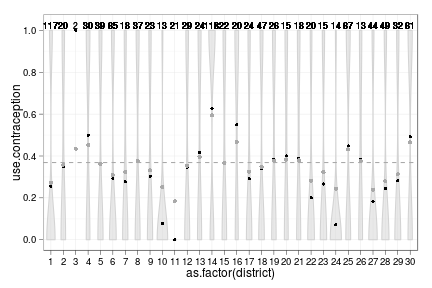
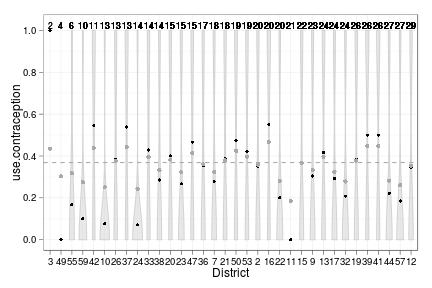
redoing ranef correlation plots

Changed region(s): [[0.0903, 0.0625, 0.963, 0.8438], [0.0903, 0.875, 0.963, 0.9688]]

diff --git a/hw9ashander.tex b/hw9ashander.tex
@@ -428,17 +428,12 @@ Looking at fertility in Bangladesh circa 1980.
 \begin{flushleft}
 \ttfamily\noindent
 \hlsymbol{d}{\ }\hlassignement{\usebox{\hlnormalsizeboxlessthan}-}{\ }\hlfunctioncall{read.csv}\hlkeyword{(}\hlstring{"{}bangladesh.csv"{}}\hlkeyword{)}\hspace*{\fill}\\
-\hlstd{}\hlfunctioncall{head}\hlkeyword{(}\hlsymbol{d}\hlkeyword{)}\mbox{}
+\hlstd{}\hlfunctioncall{head}\hlkeyword{(}\hlsymbol{d}\hlkeyword{,}{\ }\hlargument{n}{\ }\hlargument{=}{\ }\hlnumber{1}\hlkeyword{)}\mbox{}
 \normalfont
 \end{flushleft}
 \begin{verbatim}
 ##   woman district use.contraception living.children age.centered urban
 ## 1     1        1                 0               4        18.44     1
-## 2     2        1                 0               1        -5.56     1
-## 3     3        1                 0               3         1.44     1
-## 4     4        1                 0               4         8.44     1
-## 5     5        1                 0               1       -13.56     1
-## 6     6        1                 0               1       -11.56     1
 \end{verbatim}
 \begin{flushleft}
 \ttfamily\noindent
@@ -456,7 +451,7 @@ My focus is the variables {\tt district}, defining the woman's location in polit
 \subsection*{Predicting contraception use}
 
 
-First, I focus on predicting contraception use accounting for clustering of observations by district. 
+First, I will model contraception use accounting for clustering of observations by district. 
 I'll compare a model with a fixed effect for {\tt district} with a mixed effects model that puts random effects on {\tt district}
 
 \begin{knitrout}
@@ -480,13 +475,15 @@ I'll compare a model with a fixed effect for {\tt district} with a mixed effects
 
 
 \subsubsection*{Mixed effects or not?}
+
+
 \begin{knitrout}
 \definecolor{shadecolor}{rgb}{.97, .97, .97}{\color{fgcolor}\begin{kframe}
 \begin{flushleft}
 \ttfamily\noindent
-\hspace*{\fill}\\
-\hlstd{}\hlsymbol{d2}{\ }\hlassignement{\usebox{\hlnormalsizeboxlessthan}-}{\ }\hlfunctioncall{fortify}\hlkeyword{(}\hlsymbol{m1}\hlkeyword{,}{\ }\hlsymbol{d}\hlkeyword{)}{\ }{\ }\hlcomment{\usebox{\hlnormalsizeboxhash}add{\ }predictions{\ }to{\ }data{\ }logistic(d2\usebox{\hlnormalsizeboxdollar}.fitted){\ }gives{\ }predictions}\hspace*{\fill}\\
-\hlstd{}\hlsymbol{d2}\hlkeyword{\usebox{\hlnormalsizeboxdollar}}\hlsymbol{upper}{\ }\hlassignement{\usebox{\hlnormalsizeboxlessthan}-}{\ }\hlfunctioncall{ifelse}\hlkeyword{(}\hlsymbol{d2}\hlkeyword{\usebox{\hlnormalsizeboxdollar}}\hlsymbol{district}{\ }\hlkeyword{\usebox{\hlnormalsizeboxgreaterthan}}{\ }\hlnumber{30}\hlkeyword{,}{\ }\hlnumber{FALSE}\hlkeyword{,}{\ }\hlnumber{TRUE}\hlkeyword{)}\hspace*{\fill}\\
+\hlsymbol{d2}{\ }\hlassignement{\usebox{\hlnormalsizeboxlessthan}-}{\ }\hlfunctioncall{fortify}\hlkeyword{(}\hlsymbol{m1}\hlkeyword{,}{\ }\hlsymbol{d}\hlkeyword{)}{\ }{\ }\hlcomment{\usebox{\hlnormalsizeboxhash}add{\ }predictions{\ }to{\ }data{\ }logistic(d2\usebox{\hlnormalsizeboxdollar}.fitted){\ }gives{\ }predictions}\hspace*{\fill}\\
+\hlstd{}\hlsymbol{d2}\hlkeyword{\usebox{\hlnormalsizeboxdollar}}\hlsymbol{upper}{\ }\hlassignement{\usebox{\hlnormalsizeboxlessthan}-}{\ }\hlfunctioncall{with}\hlkeyword{(}\hlsymbol{d2}\hlkeyword{,}{\ }\hlfunctioncall{ifelse}\hlkeyword{(}\hlsymbol{population}{\ }\hlkeyword{\usebox{\hlnormalsizeboxgreaterthan}}{\ }\hlfunctioncall{median}\hlkeyword{(}\hlfunctioncall{unique}\hlkeyword{(}\hlsymbol{population}\hlkeyword{)}\hlkeyword{)}\hlkeyword{,}\hspace*{\fill}\\
+\hlstd{}{\ }{\ }{\ }{\ }\hlnumber{FALSE}\hlkeyword{,}{\ }\hlnumber{TRUE}\hlkeyword{)}\hlkeyword{)}\hspace*{\fill}\\
 \hlstd{}\hlsymbol{d2}\hlkeyword{\usebox{\hlnormalsizeboxdollar}}\hlsymbol{m1}{\ }\hlassignement{\usebox{\hlnormalsizeboxlessthan}-}{\ }\hlfunctioncall{logistic}\hlkeyword{(}\hlsymbol{d2}\hlkeyword{\usebox{\hlnormalsizeboxdollar}}\hlsymbol{.fitted}\hlkeyword{)}\hspace*{\fill}\\
 \hlstd{}\hspace*{\fill}\\
 \hlstd{}\hlsymbol{re2}{\ }\hlassignement{\usebox{\hlnormalsizeboxlessthan}-}{\ }\hlfunctioncall{ranef}\hlkeyword{(}\hlsymbol{m2}\hlkeyword{)}\hlkeyword{\usebox{\hlnormalsizeboxdollar}}\hlsymbol{district}\hspace*{\fill}\\
@@ -494,24 +491,26 @@ I'll compare a model with a fixed effect for {\tt district} with a mixed effects
 \hlstd{}\hlsymbol{d2}\hlkeyword{\usebox{\hlnormalsizeboxdollar}}\hlsymbol{m2}{\ }\hlassignement{\usebox{\hlnormalsizeboxlessthan}-}{\ }\hlfunctioncall{sapply}\hlkeyword{(}\hlsymbol{d2}\hlkeyword{\usebox{\hlnormalsizeboxdollar}}\hlsymbol{district}\hlkeyword{,}{\ }\hlkeyword{function}\hlkeyword{(}\hlformalargs{i}\hlkeyword{)}{\ }\hlfunctioncall{logistic}\hlkeyword{(}\hlsymbol{fe2}{\ }\hlkeyword{+}{\ }\hlsymbol{re2}\hlkeyword{[}\hlfunctioncall{match}\hlkeyword{(}\hlsymbol{i}\hlkeyword{,}\hspace*{\fill}\\
 \hlstd{}{\ }{\ }{\ }{\ }\hlfunctioncall{row.names}\hlkeyword{(}\hlsymbol{re2}\hlkeyword{)}\hlkeyword{)}\hlkeyword{,}{\ }\hlkeyword{]}\hlkeyword{)}\hlkeyword{)}\hspace*{\fill}\\
 \hlstd{}\hspace*{\fill}\\
+\hlstd{}\hlsymbol{d2}\hlkeyword{\usebox{\hlnormalsizeboxdollar}}\hlsymbol{District}{\ }\hlassignement{\usebox{\hlnormalsizeboxlessthan}-}{\ }\hlfunctioncall{with}\hlkeyword{(}\hlsymbol{d2}\hlkeyword{,}{\ }\hlfunctioncall{factor}\hlkeyword{(}\hlsymbol{district}\hlkeyword{,}{\ }\hlargument{levels}{\ }\hlargument{=}{\ }\hlfunctioncall{unique}\hlkeyword{(}\hlsymbol{district}\hlkeyword{[}\hlfunctioncall{order}\hlkeyword{(}\hlsymbol{population}\hlkeyword{)}\hlkeyword{]}\hlkeyword{)}\hlkeyword{)}\hlkeyword{)}\hspace*{\fill}\\
+\hlstd{}\hspace*{\fill}\\
 \hlstd{}\hlsymbol{g}{\ }\hlassignement{\usebox{\hlnormalsizeboxlessthan}-}{\ }\hlfunctioncall{ggplot}\hlkeyword{(}\hlfunctioncall{subset}\hlkeyword{(}\hlsymbol{d2}\hlkeyword{,}{\ }\hlsymbol{upper}\hlkeyword{)}\hlkeyword{)}{\ }\hlkeyword{+}{\ }\hlfunctioncall{theme\usebox{\hlnormalsizeboxunderscore}bw}\hlkeyword{(}\hlkeyword{)}\hspace*{\fill}\\
-\hlstd{}\hlsymbol{g}{\ }\hlassignement{\usebox{\hlnormalsizeboxlessthan}-}{\ }\hlsymbol{g}{\ }\hlkeyword{+}{\ }\hlfunctioncall{geom\usebox{\hlnormalsizeboxunderscore}violin}\hlkeyword{(}\hlfunctioncall{aes}\hlkeyword{(}\hlfunctioncall{as.factor}\hlkeyword{(}\hlsymbol{district}\hlkeyword{)}\hlkeyword{,}{\ }\hlsymbol{use.contraception}\hlkeyword{)}\hlkeyword{,}\hspace*{\fill}\\
-\hlstd{}{\ }{\ }{\ }{\ }\hlargument{alpha}{\ }\hlargument{=}{\ }\hlnumber{0.5}\hlkeyword{,}{\ }\hlargument{fill}{\ }\hlargument{=}{\ }\hlstring{"{}lightgrey"{}}\hlkeyword{,}{\ }\hlargument{color}{\ }\hlargument{=}{\ }\hlstring{"{}lightgray"{}}\hlkeyword{)}{\ }{\ }\hlcomment{\usebox{\hlnormalsizeboxhash}\usebox{\hlnormalsizeboxhash}{\ }construct{\ }a{\ }violin{\ }plot{\ }for{\ }use/non-use{\ }each{\ }district}\hspace*{\fill}\\
-\hlstd{}\hlsymbol{g}{\ }\hlassignement{\usebox{\hlnormalsizeboxlessthan}-}{\ }\hlsymbol{g}{\ }\hlkeyword{+}{\ }\hlfunctioncall{geom\usebox{\hlnormalsizeboxunderscore}point}\hlkeyword{(}\hlfunctioncall{aes}\hlkeyword{(}\hlfunctioncall{as.factor}\hlkeyword{(}\hlsymbol{district}\hlkeyword{)}\hlkeyword{,}{\ }\hlsymbol{m1}\hlkeyword{)}\hlkeyword{,}{\ }\hlargument{size}{\ }\hlargument{=}{\ }\hlnumber{1.5}\hlkeyword{)}\hspace*{\fill}\\
-\hlstd{}\hlsymbol{g}{\ }\hlassignement{\usebox{\hlnormalsizeboxlessthan}-}{\ }\hlsymbol{g}{\ }\hlkeyword{+}{\ }\hlfunctioncall{geom\usebox{\hlnormalsizeboxunderscore}point}\hlkeyword{(}\hlfunctioncall{aes}\hlkeyword{(}\hlfunctioncall{as.factor}\hlkeyword{(}\hlsymbol{district}\hlkeyword{)}\hlkeyword{,}{\ }\hlsymbol{m2}\hlkeyword{)}\hlkeyword{,}{\ }\hlargument{color}{\ }\hlargument{=}{\ }\hlstring{"{}darkgrey"{}}\hlkeyword{,}\hspace*{\fill}\\
+\hlstd{}\hlsymbol{g}{\ }\hlassignement{\usebox{\hlnormalsizeboxlessthan}-}{\ }\hlsymbol{g}{\ }\hlkeyword{+}{\ }\hlfunctioncall{geom\usebox{\hlnormalsizeboxunderscore}violin}\hlkeyword{(}\hlfunctioncall{aes}\hlkeyword{(}\hlsymbol{District}\hlkeyword{,}{\ }\hlsymbol{use.contraception}\hlkeyword{)}\hlkeyword{,}{\ }\hlargument{alpha}{\ }\hlargument{=}{\ }\hlnumber{0.5}\hlkeyword{,}\hspace*{\fill}\\
+\hlstd{}{\ }{\ }{\ }{\ }\hlargument{fill}{\ }\hlargument{=}{\ }\hlstring{"{}lightgrey"{}}\hlkeyword{,}{\ }\hlargument{color}{\ }\hlargument{=}{\ }\hlstring{"{}lightgray"{}}\hlkeyword{)}{\ }{\ }\hlcomment{\usebox{\hlnormalsizeboxhash}\usebox{\hlnormalsizeboxhash}{\ }construct{\ }a{\ }violin{\ }plot{\ }for{\ }use/non-use{\ }each{\ }district}\hspace*{\fill}\\
+\hlstd{}\hlsymbol{g}{\ }\hlassignement{\usebox{\hlnormalsizeboxlessthan}-}{\ }\hlsymbol{g}{\ }\hlkeyword{+}{\ }\hlfunctioncall{geom\usebox{\hlnormalsizeboxunderscore}point}\hlkeyword{(}\hlfunctioncall{aes}\hlkeyword{(}\hlsymbol{District}\hlkeyword{,}{\ }\hlsymbol{m1}\hlkeyword{)}\hlkeyword{,}{\ }\hlargument{size}{\ }\hlargument{=}{\ }\hlnumber{1.5}\hlkeyword{)}\hspace*{\fill}\\
+\hlstd{}\hlsymbol{g}{\ }\hlassignement{\usebox{\hlnormalsizeboxlessthan}-}{\ }\hlsymbol{g}{\ }\hlkeyword{+}{\ }\hlfunctioncall{geom\usebox{\hlnormalsizeboxunderscore}point}\hlkeyword{(}\hlfunctioncall{aes}\hlkeyword{(}\hlsymbol{District}\hlkeyword{,}{\ }\hlsymbol{m2}\hlkeyword{)}\hlkeyword{,}{\ }\hlargument{color}{\ }\hlargument{=}{\ }\hlstring{"{}darkgrey"{}}\hlkeyword{,}\hspace*{\fill}\\
 \hlstd{}{\ }{\ }{\ }{\ }\hlargument{size}{\ }\hlargument{=}{\ }\hlnumber{2}\hlkeyword{)}{\ }\hlkeyword{+}{\ }\hlfunctioncall{geom\usebox{\hlnormalsizeboxunderscore}hline}\hlkeyword{(}\hlargument{yintercept}{\ }\hlargument{=}{\ }\hlfunctioncall{logistic}\hlkeyword{(}\hlsymbol{fe2}\hlkeyword{)}\hlkeyword{,}{\ }\hlargument{color}{\ }\hlargument{=}{\ }\hlstring{"{}darkgrey"{}}\hlkeyword{,}\hspace*{\fill}\\
 \hlstd{}{\ }{\ }{\ }{\ }\hlargument{linetype}{\ }\hlargument{=}{\ }\hlnumber{2}\hlkeyword{)}\hspace*{\fill}\\
-\hlstd{}\hlsymbol{g}{\ }\hlkeyword{+}{\ }\hlfunctioncall{geom\usebox{\hlnormalsizeboxunderscore}text}\hlkeyword{(}\hlfunctioncall{aes}\hlkeyword{(}\hlfunctioncall{as.factor}\hlkeyword{(}\hlsymbol{district}\hlkeyword{)}\hlkeyword{,}{\ }\hlfunctioncall{c}\hlkeyword{(}\hlnumber{1.025}\hlkeyword{)}\hlkeyword{,}{\ }\hlargument{label}{\ }\hlargument{=}{\ }\hlsymbol{population}\hlkeyword{)}\hlkeyword{,}\hspace*{\fill}\\
+\hlstd{}\hlsymbol{g}{\ }\hlkeyword{+}{\ }\hlfunctioncall{geom\usebox{\hlnormalsizeboxunderscore}text}\hlkeyword{(}\hlfunctioncall{aes}\hlkeyword{(}\hlsymbol{District}\hlkeyword{,}{\ }\hlfunctioncall{c}\hlkeyword{(}\hlnumber{1.025}\hlkeyword{)}\hlkeyword{,}{\ }\hlargument{label}{\ }\hlargument{=}{\ }\hlsymbol{population}\hlkeyword{)}\hlkeyword{,}\hspace*{\fill}\\
 \hlstd{}{\ }{\ }{\ }{\ }\hlargument{size}{\ }\hlargument{=}{\ }\hlnumber{3}\hlkeyword{,}{\ }\hlargument{fontfamily}{\ }\hlargument{=}{\ }\hlstring{"{}serif"{}}\hlkeyword{)}\hspace*{\fill}\\
 \hlstd{}\hspace*{\fill}\\
 \hlstd{}\hlsymbol{g}{\ }\hlassignement{\usebox{\hlnormalsizeboxlessthan}-}{\ }\hlfunctioncall{ggplot}\hlkeyword{(}\hlfunctioncall{subset}\hlkeyword{(}\hlsymbol{d2}\hlkeyword{,}{\ }\hlkeyword{!}\hlsymbol{upper}\hlkeyword{)}\hlkeyword{)}{\ }\hlkeyword{+}{\ }\hlfunctioncall{theme\usebox{\hlnormalsizeboxunderscore}bw}\hlkeyword{(}\hlkeyword{)}\hspace*{\fill}\\
-\hlstd{}\hlsymbol{g}{\ }\hlassignement{\usebox{\hlnormalsizeboxlessthan}-}{\ }\hlsymbol{g}{\ }\hlkeyword{+}{\ }\hlfunctioncall{geom\usebox{\hlnormalsizeboxunderscore}violin}\hlkeyword{(}\hlfunctioncall{aes}\hlkeyword{(}\hlfunctioncall{as.factor}\hlkeyword{(}\hlsymbol{district}\hlkeyword{)}\hlkeyword{,}{\ }\hlsymbol{use.contraception}\hlkeyword{)}\hlkeyword{,}\hspace*{\fill}\\
-\hlstd{}{\ }{\ }{\ }{\ }\hlargument{alpha}{\ }\hlargument{=}{\ }\hlnumber{0.5}\hlkeyword{,}{\ }\hlargument{fill}{\ }\hlargument{=}{\ }\hlstring{"{}lightgrey"{}}\hlkeyword{,}{\ }\hlargument{color}{\ }\hlargument{=}{\ }\hlstring{"{}lightgray"{}}\hlkeyword{)}{\ }{\ }\hlcomment{\usebox{\hlnormalsizeboxhash}\usebox{\hlnormalsizeboxhash}{\ }construct{\ }a{\ }violin{\ }plot{\ }for{\ }use/non-use{\ }each{\ }district}\hspace*{\fill}\\
-\hlstd{}\hlsymbol{g}{\ }\hlassignement{\usebox{\hlnormalsizeboxlessthan}-}{\ }\hlsymbol{g}{\ }\hlkeyword{+}{\ }\hlfunctioncall{geom\usebox{\hlnormalsizeboxunderscore}point}\hlkeyword{(}\hlfunctioncall{aes}\hlkeyword{(}\hlfunctioncall{as.factor}\hlkeyword{(}\hlsymbol{district}\hlkeyword{)}\hlkeyword{,}{\ }\hlsymbol{m1}\hlkeyword{)}\hlkeyword{,}{\ }\hlargument{size}{\ }\hlargument{=}{\ }\hlnumber{1.5}\hlkeyword{)}\hspace*{\fill}\\
-\hlstd{}\hlsymbol{g}{\ }\hlassignement{\usebox{\hlnormalsizeboxlessthan}-}{\ }\hlsymbol{g}{\ }\hlkeyword{+}{\ }\hlfunctioncall{geom\usebox{\hlnormalsizeboxunderscore}point}\hlkeyword{(}\hlfunctioncall{aes}\hlkeyword{(}\hlfunctioncall{as.factor}\hlkeyword{(}\hlsymbol{district}\hlkeyword{)}\hlkeyword{,}{\ }\hlsymbol{m2}\hlkeyword{)}\hlkeyword{,}{\ }\hlargument{color}{\ }\hlargument{=}{\ }\hlstring{"{}darkgrey"{}}\hlkeyword{,}\hspace*{\fill}\\
+\hlstd{}\hlsymbol{g}{\ }\hlassignement{\usebox{\hlnormalsizeboxlessthan}-}{\ }\hlsymbol{g}{\ }\hlkeyword{+}{\ }\hlfunctioncall{geom\usebox{\hlnormalsizeboxunderscore}violin}\hlkeyword{(}\hlfunctioncall{aes}\hlkeyword{(}\hlsymbol{District}\hlkeyword{,}{\ }\hlsymbol{use.contraception}\hlkeyword{)}\hlkeyword{,}{\ }\hlargument{alpha}{\ }\hlargument{=}{\ }\hlnumber{0.5}\hlkeyword{,}\hspace*{\fill}\\
+\hlstd{}{\ }{\ }{\ }{\ }\hlargument{fill}{\ }\hlargument{=}{\ }\hlstring{"{}lightgrey"{}}\hlkeyword{,}{\ }\hlargument{color}{\ }\hlargument{=}{\ }\hlstring{"{}lightgray"{}}\hlkeyword{)}{\ }{\ }\hlcomment{\usebox{\hlnormalsizeboxhash}\usebox{\hlnormalsizeboxhash}{\ }construct{\ }a{\ }violin{\ }plot{\ }for{\ }use/non-use{\ }each{\ }district}\hspace*{\fill}\\
+\hlstd{}\hlsymbol{g}{\ }\hlassignement{\usebox{\hlnormalsizeboxlessthan}-}{\ }\hlsymbol{g}{\ }\hlkeyword{+}{\ }\hlfunctioncall{geom\usebox{\hlnormalsizeboxunderscore}point}\hlkeyword{(}\hlfunctioncall{aes}\hlkeyword{(}\hlsymbol{District}\hlkeyword{,}{\ }\hlsymbol{m1}\hlkeyword{)}\hlkeyword{,}{\ }\hlargument{size}{\ }\hlargument{=}{\ }\hlnumber{1.5}\hlkeyword{)}\hspace*{\fill}\\
+\hlstd{}\hlsymbol{g}{\ }\hlassignement{\usebox{\hlnormalsizeboxlessthan}-}{\ }\hlsymbol{g}{\ }\hlkeyword{+}{\ }\hlfunctioncall{geom\usebox{\hlnormalsizeboxunderscore}point}\hlkeyword{(}\hlfunctioncall{aes}\hlkeyword{(}\hlsymbol{District}\hlkeyword{,}{\ }\hlsymbol{m2}\hlkeyword{)}\hlkeyword{,}{\ }\hlargument{color}{\ }\hlargument{=}{\ }\hlstring{"{}darkgrey"{}}\hlkeyword{,}\hspace*{\fill}\\
 \hlstd{}{\ }{\ }{\ }{\ }\hlargument{size}{\ }\hlargument{=}{\ }\hlnumber{2}\hlkeyword{)}{\ }\hlkeyword{+}{\ }\hlfunctioncall{geom\usebox{\hlnormalsizeboxunderscore}hline}\hlkeyword{(}\hlargument{yintercept}{\ }\hlargument{=}{\ }\hlfunctioncall{logistic}\hlkeyword{(}\hlsymbol{fe2}\hlkeyword{)}\hlkeyword{,}{\ }\hlargument{color}{\ }\hlargument{=}{\ }\hlstring{"{}darkgrey"{}}\hlkeyword{,}\hspace*{\fill}\\
 \hlstd{}{\ }{\ }{\ }{\ }\hlargument{linetype}{\ }\hlargument{=}{\ }\hlnumber{2}\hlkeyword{)}\hspace*{\fill}\\
-\hlstd{}\hlsymbol{g}{\ }\hlkeyword{+}{\ }\hlfunctioncall{geom\usebox{\hlnormalsizeboxunderscore}text}\hlkeyword{(}\hlfunctioncall{aes}\hlkeyword{(}\hlfunctioncall{as.factor}\hlkeyword{(}\hlsymbol{district}\hlkeyword{)}\hlkeyword{,}{\ }\hlfunctioncall{c}\hlkeyword{(}\hlnumber{1.025}\hlkeyword{)}\hlkeyword{,}{\ }\hlargument{label}{\ }\hlargument{=}{\ }\hlsymbol{population}\hlkeyword{)}\hlkeyword{,}\hspace*{\fill}\\
+\hlstd{}\hlsymbol{g}{\ }\hlkeyword{+}{\ }\hlfunctioncall{geom\usebox{\hlnormalsizeboxunderscore}text}\hlkeyword{(}\hlfunctioncall{aes}\hlkeyword{(}\hlsymbol{District}\hlkeyword{,}{\ }\hlfunctioncall{c}\hlkeyword{(}\hlnumber{1.025}\hlkeyword{)}\hlkeyword{,}{\ }\hlargument{label}{\ }\hlargument{=}{\ }\hlsymbol{population}\hlkeyword{)}\hlkeyword{,}\hspace*{\fill}\\
 \hlstd{}{\ }{\ }{\ }{\ }\hlargument{size}{\ }\hlargument{=}{\ }\hlnumber{3}\hlkeyword{,}{\ }\hlargument{fontfamily}{\ }\hlargument{=}{\ }\hlstring{"{}serif"{}}\hlkeyword{)}\mbox{}
 \normalfont
 \end{flushleft}
@@ -523,19 +522,24 @@ I'll compare a model with a fixed effect for {\tt district} with a mixed effects
 \end{knitrout}
 
 
-Point estimates from mixed model (gray dots) are biased toward the group mean (dashed line), relative to estimates from fixed effects model (black dots).
-Number of respondents per district are listed at the top of the plot. 
+The figures above show distributions of contraception use for each district (grey violin plots in backgroun) along with point estimates from mixed and fixed-effects only models. The estimates from mixed model (gray dots) are biased toward the group mean (dashed line), relative to estimates from fixed effects model (black dots).
+The number of respondents per district are listed at the top of the plot, and districts are ordered by this number (left to right ascending).
 
-
-The mixed effect and fixed effect estimates disagree most in districts with low numbers of respondents. 
+The mixed effect and fixed effect estimates disagree most in districts with low numbers of respondents where responses are skewed relative to the overall mean. 
 This effect occurs across the whole data set, and is most obvious in districts with very few respondents, and whose cluster mean is very far from the overall mean. 
 For example districts 3, 11, and 49 show no variance in responses and the largest disagreements between mixed and random estimates. 
 There are also large differences in districts with relatively few, but very skewed responses, e.g. district 10 (n=13), 24 (n=14), or 59 (n=10).
-When responses are very skewed, even relatively large districts 
+Even in relatively large districts, when responses are very skewed, the mixed and fixed models differ quite a bit e.g. 56 (n=45) and 34 (n=35), which are both above median.
 
 
 
 \subsubsection*{urbanness (b)}
+
+I now turn to the effect of living in an urban location on contraceptive use. 
+My armchair sociological intuition suggests women living in urban areas will be more likely to use contraception.
+
+I model contraception use as a binomial outcome predicted by the catgorical variable {\tt urban}. 
+In addition, I allow the overall prevalence (random slope intercept) and effect of urbanness (random slope) to vary by district.
 
 \begin{knitrout}
 \definecolor{shadecolor}{rgb}{.97, .97, .97}{\color{fgcolor}\begin{kframe}
@@ -584,35 +588,19 @@ When responses are very skewed, even relatively large districts
 \begin{flushleft}
 \ttfamily\noindent
 \hspace*{\fill}\\
+\hlstd{}\hlsymbol{d.re}{\ }\hlassignement{\usebox{\hlnormalsizeboxlessthan}-}{\ }\hlfunctioncall{ranef}\hlkeyword{(}\hlsymbol{m3}\hlkeyword{)}\hlkeyword{\usebox{\hlnormalsizeboxdollar}}\hlsymbol{district}\hspace*{\fill}\\
+\hlstd{}\hlsymbol{d.re}\hlkeyword{\usebox{\hlnormalsizeboxdollar}}\hlsymbol{district}{\ }\hlassignement{\usebox{\hlnormalsizeboxlessthan}-}{\ }\hlfunctioncall{as.numeric}\hlkeyword{(}\hlfunctioncall{row.names}\hlkeyword{(}\hlsymbol{d.re}\hlkeyword{)}\hlkeyword{)}\hspace*{\fill}\\
 \hlstd{}\hspace*{\fill}\\
-\hlstd{}\hlfunctioncall{plot}\hlkeyword{(}\hlfunctioncall{ranef}\hlkeyword{(}\hlsymbol{m3}\hlkeyword{)}\hlkeyword{)}\mbox{}
-\normalfont
-\end{flushleft}
-\begin{verbatim}
-## $district
-\end{verbatim}
-\begin{verbatim}
-## 
-\end{verbatim}
-
-
-\centering{}\includegraphics{urban-model} 
-
-\end{kframe}}
-\end{knitrout}
-
-
-Negative correlation between the varying intercepts and slopes and slopes on urban, per district:  $\rho = - 0. 662$. 
-
-This implies a tradeoff between these two coefficients, i.e. observed differences can be explained {\em either} via large intercept effect or via a large slope effect on urbanness. 
-This points to an issue of identifiability between random intercept on district alone and a random slope on the effect of urban within district.
-
-\begin{knitrout}
-\definecolor{shadecolor}{rgb}{.97, .97, .97}{\color{fgcolor}\begin{kframe}
-\begin{flushleft}
-\ttfamily\noindent
-\hlsymbol{g2}{\ }\hlassignement{\usebox{\hlnormalsizeboxlessthan}-}{\ }\hlfunctioncall{ggplot}\hlkeyword{(}\hlsymbol{d}\hlkeyword{)}\hspace*{\fill}\\
-\hlstd{}\hlsymbol{g2}{\ }\hlkeyword{+}{\ }\hlfunctioncall{geom\usebox{\hlnormalsizeboxunderscore}violin}\hlkeyword{(}\hlfunctioncall{aes}\hlkeyword{(}\hlsymbol{district}\hlkeyword{,}{\ }\hlsymbol{use.contraception}\hlkeyword{)}\hlkeyword{)}{\ }\hlkeyword{+}{\ }\hlfunctioncall{facet\usebox{\hlnormalsizeboxunderscore}grid}\hlkeyword{(}\hlkeyword{\urltilda{}}\hlsymbol{urban}\hlkeyword{)}\hspace*{\fill}\\
+\hlstd{}\hlsymbol{g8}{\ }\hlassignement{\usebox{\hlnormalsizeboxlessthan}-}{\ }\hlfunctioncall{ggplot}\hlkeyword{(}\hlsymbol{d.re}\hlkeyword{)}{\ }\hlkeyword{+}{\ }\hlfunctioncall{theme\usebox{\hlnormalsizeboxunderscore}bw}\hlkeyword{(}\hlkeyword{)}\hspace*{\fill}\\
+\hlstd{}\hlsymbol{g8}{\ }\hlassignement{\usebox{\hlnormalsizeboxlessthan}-}{\ }\hlsymbol{g8}{\ }\hlkeyword{+}{\ }\hlfunctioncall{geom\usebox{\hlnormalsizeboxunderscore}point}\hlkeyword{(}\hlfunctioncall{aes}\hlkeyword{(}\hlsymbol{\usebox{\hlnormalsizeboxbacktick}(Intercept)\usebox{\hlnormalsizeboxbacktick}}\hlkeyword{,}{\ }\hlsymbol{urban}\hlkeyword{)}\hlkeyword{)}\hspace*{\fill}\\
+\hlstd{}\hspace*{\fill}\\
+\hlstd{}\hlsymbol{g9}{\ }\hlassignement{\usebox{\hlnormalsizeboxlessthan}-}{\ }\hlfunctioncall{ggplot}\hlkeyword{(}\hlfunctioncall{melt}\hlkeyword{(}\hlsymbol{d.re}\hlkeyword{,}{\ }\hlargument{id.vars}{\ }\hlargument{=}{\ }\hlstring{"{}district"{}}\hlkeyword{)}\hlkeyword{)}{\ }\hlkeyword{+}{\ }\hlfunctioncall{theme\usebox{\hlnormalsizeboxunderscore}bw}\hlkeyword{(}\hlkeyword{)}\hspace*{\fill}\\
+\hlstd{}\hlsymbol{g9}{\ }\hlassignement{\usebox{\hlnormalsizeboxlessthan}-}{\ }\hlsymbol{g9}{\ }\hlkeyword{+}{\ }\hlfunctioncall{geom\usebox{\hlnormalsizeboxunderscore}line}\hlkeyword{(}\hlfunctioncall{aes}\hlkeyword{(}\hlsymbol{district}\hlkeyword{,}{\ }\hlsymbol{value}\hlkeyword{,}{\ }\hlargument{color}{\ }\hlargument{=}{\ }\hlsymbol{variable}\hlkeyword{)}\hlkeyword{)}{\ }\hlkeyword{+}\hspace*{\fill}\\
+\hlstd{}{\ }{\ }{\ }{\ }\hlfunctioncall{scale\usebox{\hlnormalsizeboxunderscore}color\usebox{\hlnormalsizeboxunderscore}grey}\hlkeyword{(}\hlkeyword{)}{\ }\hlkeyword{+}{\ }\hlfunctioncall{ylab}\hlkeyword{(}\hlstring{"{}varying{\ }effect{\ }estimate"{}}\hlkeyword{)}\hspace*{\fill}\\
+\hlstd{}\hspace*{\fill}\\
+\hlstd{}\hlcomment{\usebox{\hlnormalsizeboxhash}g2{\ }\usebox{\hlnormalsizeboxlessthan}-{\ }ggplot(within(d,{\ }urban{\ }\usebox{\hlnormalsizeboxlessthan}-{\ }as.factor(urban)))+theme\usebox{\hlnormalsizeboxunderscore}bw()}\hspace*{\fill}\\
+\hlstd{}\hlcomment{\usebox{\hlnormalsizeboxhash}g2{\ }+{\ }geom\usebox{\hlnormalsizeboxunderscore}violin(aes(district,}\hspace*{\fill}\\
+\hlstd{}\hlcomment{\usebox{\hlnormalsizeboxhash}{\ }{\ }{\ }use.contraception,fill=urban))+facet\usebox{\hlnormalsizeboxunderscore}grid(\urltilda{}urban)+scale\usebox{\hlnormalsizeboxunderscore}fill\usebox{\hlnormalsizeboxunderscore}grey()}\hspace*{\fill}\\
 \hlstd{}\hspace*{\fill}\\
 \hlstd{}\hlsymbol{a\usebox{\hlnormalsizeboxunderscore}dist}{\ }\hlassignement{\usebox{\hlnormalsizeboxlessthan}-}{\ }\hlfunctioncall{ranef}\hlkeyword{(}\hlsymbol{m3}\hlkeyword{)}\hlkeyword{\usebox{\hlnormalsizeboxdollar}}\hlsymbol{district}\hlkeyword{[}\hlkeyword{,}{\ }\hlnumber{1}\hlkeyword{]}\hspace*{\fill}\\
 \hlstd{}\hlsymbol{b\usebox{\hlnormalsizeboxunderscore}dist}{\ }\hlassignement{\usebox{\hlnormalsizeboxlessthan}-}{\ }\hlfunctioncall{ranef}\hlkeyword{(}\hlsymbol{m3}\hlkeyword{)}\hlkeyword{\usebox{\hlnormalsizeboxdollar}}\hlsymbol{district}\hlkeyword{[}\hlkeyword{,}{\ }\hlnumber{2}\hlkeyword{]}\hspace*{\fill}\\
@@ -621,26 +609,37 @@ This points to an issue of identifiability between random intercept on district 
 \hlstd{}\hlsymbol{urban}{\ }\hlassignement{\usebox{\hlnormalsizeboxlessthan}-}{\ }\hlfunctioncall{logistic}\hlkeyword{(}\hlsymbol{a}{\ }\hlkeyword{+}{\ }\hlsymbol{a\usebox{\hlnormalsizeboxunderscore}dist}{\ }\hlkeyword{+}{\ }\hlsymbol{b\usebox{\hlnormalsizeboxunderscore}dist}{\ }\hlkeyword{+}{\ }\hlsymbol{b}\hlkeyword{)}\hspace*{\fill}\\
 \hlstd{}\hlsymbol{rural}{\ }\hlassignement{\usebox{\hlnormalsizeboxlessthan}-}{\ }\hlfunctioncall{logistic}\hlkeyword{(}\hlsymbol{a}{\ }\hlkeyword{+}{\ }\hlsymbol{a\usebox{\hlnormalsizeboxunderscore}dist}\hlkeyword{)}\hspace*{\fill}\\
 \hlstd{}\hlsymbol{p.corr}{\ }\hlassignement{\usebox{\hlnormalsizeboxlessthan}-}{\ }\hlfunctioncall{data.frame}\hlkeyword{(}\hlargument{urban}{\ }\hlargument{=}{\ }\hlsymbol{urban}\hlkeyword{,}{\ }\hlargument{rural}{\ }\hlargument{=}{\ }\hlsymbol{rural}\hlkeyword{)}\hspace*{\fill}\\
-\hlstd{}\hlsymbol{p.corr}\hlkeyword{\usebox{\hlnormalsizeboxdollar}}\hlsymbol{lab}{\ }\hlassignement{\usebox{\hlnormalsizeboxlessthan}-}{\ }\hlfunctioncall{as.character}\hlkeyword{(}\hlfunctioncall{unique}\hlkeyword{(}\hlsymbol{d2}\hlkeyword{\usebox{\hlnormalsizeboxdollar}}\hlsymbol{district}\hlkeyword{)}\hlkeyword{)}\hspace*{\fill}\\
+\hlstd{}\hlsymbol{p.corr}\hlkeyword{\usebox{\hlnormalsizeboxdollar}}\hlsymbol{lab}{\ }\hlassignement{\usebox{\hlnormalsizeboxlessthan}-}{\ }\hlfunctioncall{as.character}\hlkeyword{(}\hlfunctioncall{unique}\hlkeyword{(}\hlsymbol{d}\hlkeyword{\usebox{\hlnormalsizeboxdollar}}\hlsymbol{district}\hlkeyword{)}\hlkeyword{)}\hspace*{\fill}\\
 \hlstd{}\hspace*{\fill}\\
-\hlstd{}\hlfunctioncall{plot}\hlkeyword{(}\hlnumber{1}\hlkeyword{,}{\ }\hlnumber{1}\hlkeyword{,}{\ }\hlargument{ylim}{\ }\hlargument{=}{\ }\hlfunctioncall{c}\hlkeyword{(}\hlnumber{0}\hlkeyword{,}{\ }\hlnumber{1}\hlkeyword{)}\hlkeyword{,}{\ }\hlargument{xlim}{\ }\hlargument{=}{\ }\hlfunctioncall{c}\hlkeyword{(}\hlnumber{0}\hlkeyword{,}{\ }\hlnumber{1}\hlkeyword{)}\hlkeyword{,}{\ }\hlargument{pch}{\ }\hlargument{=}{\ }\hlstring{"{}"{}}\hlkeyword{,}{\ }\hlargument{xlab}{\ }\hlargument{=}{\ }\hlstring{"{}probability{\ }contraceptive{\ }use{\ }rural"{}}\hlkeyword{,}\hspace*{\fill}\\
-\hlstd{}{\ }{\ }{\ }{\ }\hlargument{ylab}{\ }\hlargument{=}{\ }\hlstring{"{}probability{\ }contraceptive{\ }use{\ }urban"{}}\hlkeyword{)}\hspace*{\fill}\\
-\hlstd{}\hlfunctioncall{abline}\hlkeyword{(}\hlnumber{0}\hlkeyword{,}{\ }\hlnumber{1}\hlkeyword{,}{\ }\hlargument{lwd}{\ }\hlargument{=}{\ }\hlnumber{2}\hlkeyword{,}{\ }\hlargument{col}{\ }\hlargument{=}{\ }\hlstring{"{}grey"{}}\hlkeyword{,}{\ }\hlargument{lty}{\ }\hlargument{=}{\ }\hlnumber{2}\hlkeyword{)}\hspace*{\fill}\\
-\hlstd{}\hlfunctioncall{points}\hlkeyword{(}\hlsymbol{rural}\hlkeyword{,}{\ }\hlsymbol{urban}\hlkeyword{,}{\ }\hlargument{col}{\ }\hlargument{=}{\ }\hlfunctioncall{col.alpha}\hlkeyword{(}\hlstring{"{}grey"{}}\hlkeyword{,}{\ }\hlnumber{0.6}\hlkeyword{)}\hlkeyword{,}{\ }\hlargument{pch}{\ }\hlargument{=}{\ }\hlnumber{19}\hlkeyword{)}\hspace*{\fill}\\
-\hlstd{}\hlcomment{\usebox{\hlnormalsizeboxhash}find{\ }outliers}\hspace*{\fill}\\
-\hlstd{}\hlsymbol{labs}{\ }\hlassignement{\usebox{\hlnormalsizeboxlessthan}-}{\ }\hlsymbol{p.corr}\hlkeyword{[}\hlfunctioncall{c}\hlkeyword{(}\hlnumber{1}\hlkeyword{,}{\ }\hlnumber{4}\hlkeyword{,}{\ }\hlnumber{11}\hlkeyword{,}{\ }\hlnumber{27}\hlkeyword{,}{\ }\hlnumber{34}\hlkeyword{,}{\ }\hlnumber{41}\hlkeyword{,}{\ }\hlnumber{52}\hlkeyword{)}\hlkeyword{,}{\ }\hlkeyword{]}\hspace*{\fill}\\
-\hlstd{}\hlfunctioncall{text}\hlkeyword{(}\hlsymbol{labs}\hlkeyword{\usebox{\hlnormalsizeboxdollar}}\hlsymbol{rural}\hlkeyword{,}{\ }\hlsymbol{labs}\hlkeyword{\usebox{\hlnormalsizeboxdollar}}\hlsymbol{urban}\hlkeyword{,}{\ }\hlargument{labels}{\ }\hlargument{=}{\ }\hlsymbol{labs}\hlkeyword{\usebox{\hlnormalsizeboxdollar}}\hlsymbol{lab}\hlkeyword{)}\mbox{}
+\hlstd{}\hlsymbol{g7}{\ }\hlassignement{\usebox{\hlnormalsizeboxlessthan}-}{\ }\hlfunctioncall{ggplot}\hlkeyword{(}\hlsymbol{p.corr}\hlkeyword{)}{\ }\hlkeyword{+}{\ }\hlfunctioncall{theme\usebox{\hlnormalsizeboxunderscore}bw}\hlkeyword{(}\hlkeyword{)}\hspace*{\fill}\\
+\hlstd{}\hlsymbol{g7}{\ }\hlassignement{\usebox{\hlnormalsizeboxlessthan}-}{\ }\hlsymbol{g7}{\ }\hlkeyword{+}{\ }\hlfunctioncall{geom\usebox{\hlnormalsizeboxunderscore}abline}\hlkeyword{(}\hlargument{intercept}{\ }\hlargument{=}{\ }\hlnumber{0}\hlkeyword{,}{\ }\hlargument{slope}{\ }\hlargument{=}{\ }\hlnumber{1}\hlkeyword{,}{\ }\hlargument{color}{\ }\hlargument{=}{\ }\hlstring{"{}grey"{}}\hlkeyword{)}{\ }\hlkeyword{+}\hspace*{\fill}\\
+\hlstd{}{\ }{\ }{\ }{\ }\hlfunctioncall{geom\usebox{\hlnormalsizeboxunderscore}point}\hlkeyword{(}\hlfunctioncall{aes}\hlkeyword{(}\hlsymbol{rural}\hlkeyword{,}{\ }\hlsymbol{urban}\hlkeyword{)}\hlkeyword{)}{\ }\hlkeyword{+}{\ }\hlfunctioncall{xlab}\hlkeyword{(}\hlstring{"{}prob{\ }contraceptive{\ }use{\ }|{\ }rural"{}}\hlkeyword{)}{\ }\hlkeyword{+}\hspace*{\fill}\\
+\hlstd{}{\ }{\ }{\ }{\ }\hlfunctioncall{ylab}\hlkeyword{(}\hlstring{"{}prob{\ }contraceptive{\ }use{\ }|{\ }urban"{}}\hlkeyword{)}{\ }\hlkeyword{+}{\ }\hlfunctioncall{ylim}\hlkeyword{(}\hlfunctioncall{c}\hlkeyword{(}\hlnumber{0}\hlkeyword{,}{\ }\hlnumber{1}\hlkeyword{)}\hlkeyword{)}{\ }\hlkeyword{+}{\ }\hlfunctioncall{xlim}\hlkeyword{(}\hlfunctioncall{c}\hlkeyword{(}\hlnumber{0}\hlkeyword{,}\hspace*{\fill}\\
+\hlstd{}{\ }{\ }{\ }{\ }\hlnumber{1}\hlkeyword{)}\hlkeyword{)}\hspace*{\fill}\\
+\hlstd{}\hspace*{\fill}\\
+\hlstd{}\hlfunctioncall{require}\hlkeyword{(}\hlsymbol{gridExtra}\hlkeyword{)}\hspace*{\fill}\\
+\hlstd{}\hlfunctioncall{grid.arrange}\hlkeyword{(}\hlsymbol{g8}\hlkeyword{,}{\ }\hlsymbol{g9}\hlkeyword{,}{\ }\hlsymbol{g7}\hlkeyword{,}{\ }\hlargument{ncol}{\ }\hlargument{=}{\ }\hlnumber{2}\hlkeyword{)}\mbox{}
 \normalfont
 \end{flushleft}
 
 
-\centering{}\includegraphics{urban-plot1} \includegraphics{urban-plot2} 
+\centering{}\includegraphics{urban-model} 
 
 \end{kframe}}
 \end{knitrout}
 
 
+The fit estimated a negative correlation between the varying intercepts and slopes on urban, per district:  $\rho = - 0. 662$. 
+This correlation is shown in figures above (top row). 
+
+As indicated by the figures, this implies a tradeoff between these two coefficients, i.e. the differences between districts were such that they had {\em either} high contraceptive use overall (positive intercept effect) or a strong effect of urbanness (positive slope effect). 
+This points to an interaction of sorts, where urbanness has a positive effect on contraceptive use in districts with low contraceptive use overall, but the effect of urbanness is negative in districts with high contraception use.
+
+This effect is shown in the bottom figure, which plots the predicted probability of contraception use for an urban resident of a district against that predicted for a rural resident in the same district. 
+
 \subsection*{Oxford boy growth}
+
+Now, I model the heights of boys measured at different ages. 
 
 \begin{knitrout}
 \definecolor{shadecolor}{rgb}{.97, .97, .97}{\color{fgcolor}\begin{kframe}
@@ -658,7 +657,7 @@ This points to an issue of identifiability between random intercept on district 
 \end{knitrout}
 
 
-The data include several boys ({\tt Subject}) have ({\tt height}) measured over time ({\tt Age}). 
+The data include several boys ({\tt Subject}) that have ({\tt height}) measured over time ({\tt Age}). 
 
 \begin{knitrout}
 \definecolor{shadecolor}{rgb}{.97, .97, .97}{\color{fgcolor}\begin{kframe}
@@ -670,17 +669,21 @@ The data include several boys ({\tt Subject}) have ({\tt height}) measured over 
 \hlstd{}{\ }{\ }{\ }{\ }\hlfunctioncall{by}\hlkeyword{(}\hlsymbol{height}\hlkeyword{,}{\ }\hlsymbol{Subject}\hlkeyword{,}{\ }\hlsymbol{min}\hlkeyword{)}\hlkeyword{)}\hlkeyword{)}\hlkeyword{)}\hlkeyword{)}\hspace*{\fill}\\
 \hlstd{}\hspace*{\fill}\\
 \hlstd{}\hlsymbol{g3}{\ }\hlassignement{\usebox{\hlnormalsizeboxlessthan}-}{\ }\hlfunctioncall{ggplot}\hlkeyword{(}\hlsymbol{d3}\hlkeyword{)}\hspace*{\fill}\\
-\hlstd{}\hlsymbol{g3}{\ }\hlkeyword{+}{\ }\hlfunctioncall{geom\usebox{\hlnormalsizeboxunderscore}point}\hlkeyword{(}\hlfunctioncall{aes}\hlkeyword{(}\hlsymbol{age}\hlkeyword{,}{\ }\hlsymbol{height}\hlkeyword{)}\hlkeyword{)}{\ }\hlkeyword{+}{\ }\hlfunctioncall{facet\usebox{\hlnormalsizeboxunderscore}wrap}\hlkeyword{(}\hlkeyword{\urltilda{}}\hlsymbol{Subject}\hlkeyword{)}\hspace*{\fill}\\
-\hlstd{}\hlsymbol{g3}{\ }\hlkeyword{+}{\ }\hlfunctioncall{geom\usebox{\hlnormalsizeboxunderscore}point}\hlkeyword{(}\hlfunctioncall{aes}\hlkeyword{(}\hlsymbol{age}\hlkeyword{,}{\ }\hlsymbol{height}\hlkeyword{,}{\ }\hlargument{size}{\ }\hlargument{=}{\ }\hlsymbol{Subject}\hlkeyword{)}\hlkeyword{)}\mbox{}
+\hlstd{}\hlfunctioncall{grid.arrange}\hlkeyword{(}\hlsymbol{g3}{\ }\hlkeyword{+}{\ }\hlfunctioncall{geom\usebox{\hlnormalsizeboxunderscore}point}\hlkeyword{(}\hlfunctioncall{aes}\hlkeyword{(}\hlsymbol{age}\hlkeyword{,}{\ }\hlsymbol{height}\hlkeyword{)}\hlkeyword{)}{\ }\hlkeyword{+}{\ }\hlfunctioncall{facet\usebox{\hlnormalsizeboxunderscore}wrap}\hlkeyword{(}\hlkeyword{\urltilda{}}\hlsymbol{Subject}\hlkeyword{)}\hlkeyword{,}\hspace*{\fill}\\
+\hlstd{}{\ }{\ }{\ }{\ }\hlsymbol{g3}{\ }\hlkeyword{+}{\ }\hlfunctioncall{geom\usebox{\hlnormalsizeboxunderscore}point}\hlkeyword{(}\hlfunctioncall{aes}\hlkeyword{(}\hlsymbol{age}\hlkeyword{,}{\ }\hlsymbol{height}\hlkeyword{,}{\ }\hlargument{size}{\ }\hlargument{=}{\ }\hlsymbol{Subject}\hlkeyword{)}\hlkeyword{)}{\ }\hlkeyword{+}{\ }\hlfunctioncall{opts}\hlkeyword{(}\hlargument{legend.position}{\ }\hlargument{=}{\ }\hlstring{"{}none"{}}\hlkeyword{)}\hlkeyword{,}\hspace*{\fill}\\
+\hlstd{}{\ }{\ }{\ }{\ }\hlargument{ncol}{\ }\hlargument{=}{\ }\hlnumber{1}\hlkeyword{)}\mbox{}
 \normalfont
 \end{flushleft}
 
 
-\centering{}\includegraphics{plot-ox1} \includegraphics{plot-ox2} 
+\centering{}\includegraphics{plot-ox} 
 
 \end{kframe}}
 \end{knitrout}
 
+
+The top figure is a panel plot of each subject. 
+The bottom figure shows all data plotted on one figure, but with a different dot size for each subject. 
 
 The data look relatively linear. As these are growing boys, for now, it makes sense to model height as a Normal random variable predicted by {\tt age}. 
 Note that this formulation ignores the autocorrelation we expect from a time series.
@@ -819,7 +822,7 @@ Are we ...
 \hlstd{}\hlsymbol{df.prd}{\ }\hlassignement{\usebox{\hlnormalsizeboxlessthan}-}{\ }\hlfunctioncall{as.data.frame}\hlkeyword{(}\hlfunctioncall{t}\hlkeyword{(}\hlsymbol{height.pred}\hlkeyword{)}\hlkeyword{)}\hspace*{\fill}\\
 \hlstd{}\hlfunctioncall{names}\hlkeyword{(}\hlsymbol{df.prd}\hlkeyword{)}{\ }\hlassignement{\usebox{\hlnormalsizeboxlessthan}-}{\ }\hlfunctioncall{as.character}\hlkeyword{(}\hlnumber{1}\hlkeyword{:}\hlsymbol{NREP}\hlkeyword{)}\hspace*{\fill}\\
 \hlstd{}\hlsymbol{df.prd}\hlkeyword{\usebox{\hlnormalsizeboxdollar}}\hlsymbol{age}{\ }\hlassignement{\usebox{\hlnormalsizeboxlessthan}-}{\ }\hlsymbol{ages}\hspace*{\fill}\\
-\hlstd{}\hlfunctioncall{require}\hlkeyword{(}\hlsymbol{reshape}\hlkeyword{)}\hspace*{\fill}\\
+\hlstd{}\hspace*{\fill}\\
 \hlstd{}\hlsymbol{df}{\ }\hlassignement{\usebox{\hlnormalsizeboxlessthan}-}{\ }\hlfunctioncall{melt}\hlkeyword{(}\hlsymbol{df.prd}\hlkeyword{,}{\ }\hlargument{id.vars}{\ }\hlargument{=}{\ }\hlfunctioncall{c}\hlkeyword{(}\hlstring{"{}age"{}}\hlkeyword{)}\hlkeyword{)}\hspace*{\fill}\\
 \hlstd{}\hlfunctioncall{names}\hlkeyword{(}\hlsymbol{df}\hlkeyword{)}\hlkeyword{[}\hlnumber{2}\hlkeyword{:}\hlnumber{3}\hlkeyword{]}{\ }\hlassignement{\usebox{\hlnormalsizeboxlessthan}-}{\ }\hlfunctioncall{c}\hlkeyword{(}\hlstring{"{}Subject"{}}\hlkeyword{,}{\ }\hlstring{"{}height"{}}\hlkeyword{)}\hspace*{\fill}\\
 \hlstd{}\hlcomment{\usebox{\hlnormalsizeboxhash}reorder{\ }by{\ }intercept}\hspace*{\fill}\\
